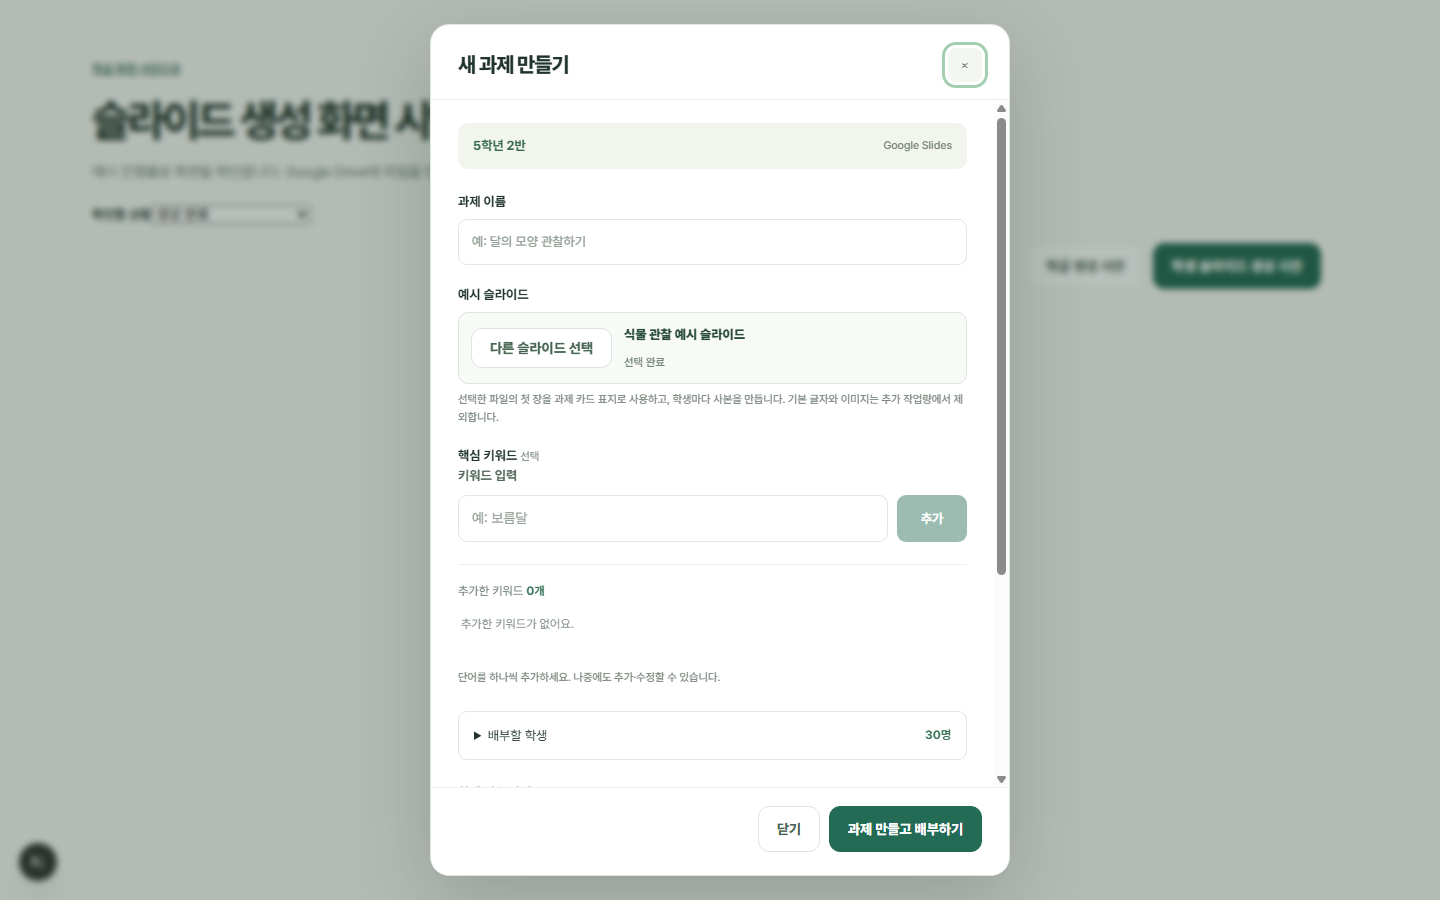
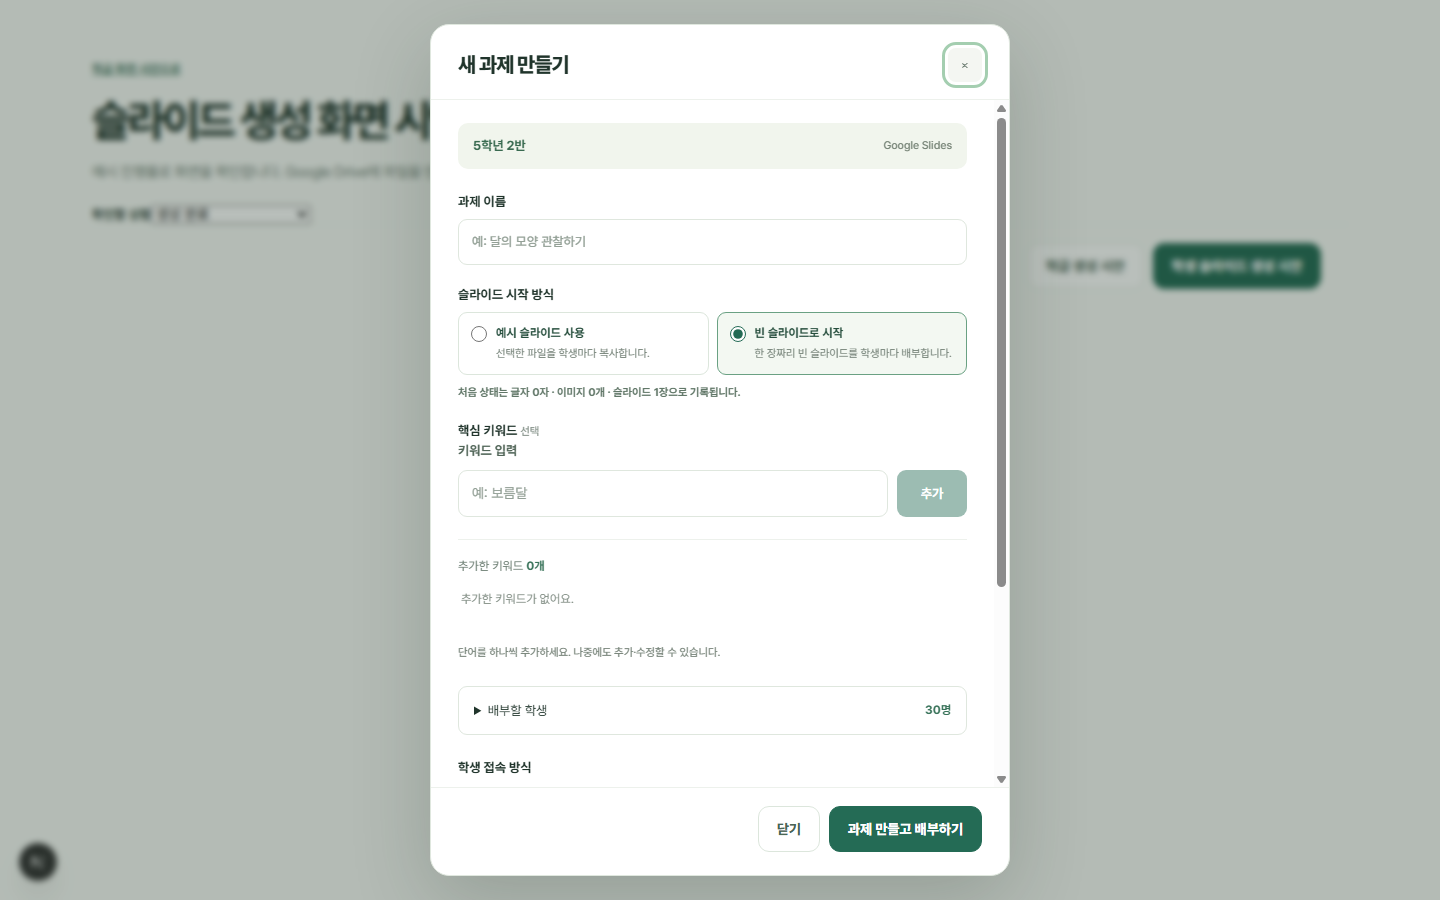
Allow blank slide assignments

diff --git a/src/components/ClassroomCreation.js b/src/components/ClassroomCreation.js
@@ -20,6 +20,7 @@ export default function ClassroomCreation({ kind, className, roster = [], existi
     const id = parsePresentationId(initialPlan?.templateUrl);
     return id ? { id, name: initialPlan?.templateName || '선택한 예시 슬라이드' } : preview ? { id: 'preview-template', name: '식물 관찰 예시 슬라이드' } : null;
   });
+  const [templateMode, setTemplateMode] = useState(initialPlan?.templateMode === 'blank' ? 'blank' : 'existing');
   const [pickingTemplate, setPickingTemplate] = useState(false);
   const [keywordList, setKeywordList] = useState(() => classroomKeywords(initialPlan?.keywords ?? initialPlan?.keywordsText ?? '')), [keywordDraft, setKeywordDraft] = useState('');
   const members = initialPlan?.roster || roster;
@@ -36,9 +37,9 @@ export default function ClassroomCreation({ kind, className, roster = [], existi
         if (isClass && (name === 'Sheet1' || name.startsWith('_'))) throw new Error('학급 이름에는 Sheet1이나 _로 시작하는 이름을 사용할 수 없습니다.');
         if (existingNames.includes(name)) throw new Error('같은 이름이 이미 있습니다. 구분할 수 있는 이름을 입력해 주세요.');
         if (isClass && !preview) assertRosterConfirmation(form.get('privacyConfirmed') === 'on');
-        const payload = isClass ? { name, rosterText: String(form.get('roster')), privacyConfirmed: form.get('privacyConfirmed') === 'on' } : { name, className, templateUrl: String(form.get('template')), templateName: template?.name || '', keywords: keywordList, shareSlides: form.get('share') === 'on', entryMode: String(form.get('entryMode') || 'shared'), roster: members.filter((student) => selected.includes(student.number)) };
+        const payload = isClass ? { name, rosterText: String(form.get('roster')), privacyConfirmed: form.get('privacyConfirmed') === 'on' } : { name, className, templateMode, templateUrl: templateMode === 'blank' ? '' : String(form.get('template')), templateName: templateMode === 'blank' ? '' : template?.name || '', keywords: keywordList, shareSlides: form.get('share') === 'on', entryMode: String(form.get('entryMode') || 'shared'), roster: members.filter((student) => selected.includes(student.number)) };
         parseRosterInput(isClass ? payload.rosterText : payload.roster.map((student) => `${student.number} ${student.name}`).join('\n'));
-        if (!isClass && !parsePresentationId(payload.templateUrl)) throw new Error('Google 슬라이드 템플릿 주소를 확인해 주세요.');
+        if (!isClass && templateMode === 'existing' && !parsePresentationId(payload.templateUrl)) throw new Error('Google 슬라이드 템플릿 주소를 확인해 주세요.');
         prepared.current = payload;
       }
       job.current ||= prepared.current.jobId || crypto.randomUUID();
@@ -74,7 +75,7 @@ export default function ClassroomCreation({ kind, className, roster = [], existi
         <fieldset disabled={busy || locked} className={real.fields}>
           <label className={styles.field}>{isClass ? '학급 이름' : '과제 이름'}<input name="name" defaultValue={initialPlan?.name || ''} required maxLength={80} placeholder={isClass ? '예: 4학년 4반' : '예: 달의 모양 관찰하기'} autoComplete="off" /></label>
           {isClass ? <><label className={styles.field}>학생 명단<textarea name="roster" required rows={8} placeholder={'1 김누리\n4 송명신\n5 달빛'} /><small>한 줄에 출석번호와 이름 또는 가명을 입력하세요. 빠진 번호는 그대로 두면 됩니다. 최대 50명.</small></label>{!preview && <div className={real.privacyNotice}><strong>명단 등록 전 확인</strong><p>번호·이름 또는 가명은 교사의 Google 시트에 저장합니다. 이후 공통 학생 링크를 만들면 링크 소지자가 목록과 연결 정보를 볼 수 있습니다.</p><label><input type="checkbox" name="privacyConfirmed" required /><span>수집·보관·공유 안내와 필요한 동의 또는 다른 적법한 처리 근거를 확인했습니다.</span></label><small>동의가 필요한 만 14세 미만 학생은 법정대리인의 동의와 그 확인 기록도 필요합니다. 이 확인란은 실제 동의서를 대신하지 않습니다.</small><a href="/privacy" target="_blank" rel="noopener noreferrer">개인정보처리방침 보기</a></div>}</> : <>
-            <div className={styles.field}><span>예시 슬라이드</span><input name="template" type="hidden" value={template?.id || ''} readOnly /><div className={real.pickerField}><button type="button" className={styles.secondaryButton} onClick={chooseTemplate} disabled={busy || locked || pickingTemplate || !onPickTemplate}>{pickingTemplate ? 'Google Drive 여는 중…' : template ? '다른 슬라이드 선택' : 'Google Drive에서 선택'}</button>{template ? <span className={real.pickedFile}><strong>{template.name}</strong><small>선택 완료</small></span> : <span className={real.pickerEmpty}>학생별로 복사할 Google Slides 파일을 선택하세요.</span>}</div><small>선택한 파일의 첫 장을 과제 카드 표지로 사용하고, 학생마다 사본을 만듭니다. 기본 글자와 이미지는 추가 작업량에서 제외합니다.</small></div>
+            <div className={styles.field}><span>슬라이드 시작 방식</span><input name="template" type="hidden" value={template?.id || ''} readOnly /><div className={real.slideSource}><label><input type="radio" name="templateMode" value="existing" checked={templateMode === 'existing'} onChange={() => setTemplateMode('existing')} /><span>예시 슬라이드 사용<small>선택한 파일을 학생마다 복사합니다.</small></span></label><label><input type="radio" name="templateMode" value="blank" checked={templateMode === 'blank'} onChange={() => setTemplateMode('blank')} /><span>빈 슬라이드로 시작<small>한 장짜리 빈 슬라이드를 학생마다 배부합니다.</small></span></label></div>{templateMode === 'existing' ? <><div className={real.pickerField}><button type="button" className={styles.secondaryButton} onClick={chooseTemplate} disabled={busy || locked || pickingTemplate || !onPickTemplate}>{pickingTemplate ? 'Google Drive 여는 중…' : template ? '다른 슬라이드 선택' : 'Google Drive에서 선택'}</button>{template ? <span className={real.pickedFile}><strong>{template.name}</strong><small>선택 완료</small></span> : <span className={real.pickerEmpty}>학생별로 복사할 Google Slides 파일을 선택하세요.</span>}</div><small>선택한 파일의 첫 장을 과제 카드 표지로 사용합니다. 기본 글자와 이미지는 추가 작업량에서 제외합니다.</small></> : <p className={real.blankSourceNote}>처음 상태는 글자 0자 · 이미지 0개 · 슬라이드 1장으로 기록됩니다.</p>}</div>
             <div className={styles.field}><span>핵심 키워드 <span className={styles.optional}>선택</span></span><KeywordInput words={keywordList} onChange={setKeywordList} draft={keywordDraft} onDraftChange={setKeywordDraft} disabled={busy || locked} /><small>단어를 하나씩 추가하세요. 나중에도 추가·수정할 수 있습니다.</small></div>
             <details className={styles.recipientPicker}><summary>배부할 학생 <strong>{selected.length}명</strong></summary><div className={styles.recipientActions}><button type="button" className={styles.textButton} onClick={() => setSelected(members.filter((student) => Number.isSafeInteger(student.number)).map((student) => student.number))}>전체 선택</button><button type="button" className={styles.textButton} onClick={() => setSelected([])}>선택 해제</button></div><div className={styles.checkGrid}>{members.map((student) => <label key={student.id || student.number}><input type="checkbox" disabled={!Number.isSafeInteger(student.number)} checked={selected.includes(student.number)} onChange={(event) => setSelected((previous) => event.target.checked ? [...previous, student.number] : previous.filter((number) => number !== student.number))} />{student.number === null ? '번호 없음' : `${student.number}번`} {student.name}</label>)}</div></details>
             {members.some((student) => !Number.isSafeInteger(student.number)) && <p className={real.warning}>출석번호가 없는 학생은 배부할 수 없습니다. 번호를 포함한 학급 명단을 등록해 주세요.</p>}

diff --git a/src/components/GuideCarousel.js b/src/components/GuideCarousel.js
@@ -8,9 +8,9 @@ import styles from './GuideCarousel.module.css';
 
 const cards = [
   { label: '시작', title: '첫 슬라이드 수업,\n이 순서대로 시작해요.', body: '학급을 만들고 과제를 배부한 뒤, 수업 중의 변화를 살펴보고 필요한 학생에게 피드백을 전합니다.', visual: 'cover' },
-  { label: '01 · 연결', title: '선생님의 Google 계정으로 연결해요.', body: '학급 명단과 수업 기록은 선생님의 Google Drive에 저장됩니다. 출석번호가 있는 명단과 수업용 예시 슬라이드를 미리 준비해 주세요.', points: ['Google 계정으로 계속하기를 누르세요.', '학생 접속 화면에는 별도 로그인이 없어요. Google 슬라이드는 학교 계정으로 열어요.'], shots: [{ src: 'home', caption: '메인 화면 · Google 계정으로 계속하기', alt: '메인 화면의 Google 계정으로 계속하기 버튼', x: 78, y: 57 }] },
+  { label: '01 · 연결', title: '선생님의 Google 계정으로 연결해요.', body: '학급 명단과 수업 기록은 선생님의 Google Drive에 저장됩니다. 출석번호가 있는 명단을 준비해 주세요. 예시 슬라이드는 없어도 됩니다.', points: ['Google 계정으로 계속하기를 누르세요.', '학생 접속 화면에는 별도 로그인이 없어요. Google 슬라이드는 학교 계정으로 열어요.'], shots: [{ src: 'home', caption: '메인 화면 · Google 계정으로 계속하기', alt: '메인 화면의 Google 계정으로 계속하기 버튼', x: 78, y: 57 }] },
   { label: '02 · 학급', title: '우리 반과 학생 명단을 등록해요.', body: '첫 학급 등록하기에서 학급 이름을 적고, 학생을 한 줄에 한 명씩 입력합니다. 번호와 이름 또는 가명을 함께 넣어 주세요.', points: ['학급 목록에서 첫 학급 등록하기를 누르세요.', '예: 1 김누리, 4 송명신'], shots: [{ src: 'first-class', caption: '① 학급 목록에서 시작', alt: '첫 학급 등록하기 버튼이 있는 학급 목록', x: 50, y: 64 }, { src: 'create-class', caption: '② 학급 이름과 명단 입력', alt: '학급 이름과 학생 명단을 입력하는 창', x: 51, y: 54 }] },
-  { label: '03 · 과제', title: '예시 슬라이드로 과제를 배부해요.', body: '새 과제 만들기에서 제목을 입력하고 Google Drive의 예시 슬라이드를 선택합니다. 키워드는 선택 사항이며 나중에도 바꿀 수 있습니다.', points: ['새 과제 만들기를 누르세요.', '배부할 학생과 접속 방식을 확인한 뒤 생성하세요.'], shots: [{ src: 'classroom', caption: '① 학급 화면에서 새 과제 만들기', alt: '학급 과제 목록 오른쪽의 새 과제 만들기 버튼', x: 88, y: 36 }, { src: 'create-assignment', caption: '② 제목과 예시 슬라이드 선택', alt: '과제 이름과 예시 슬라이드를 선택하는 창', x: 50, y: 39 }] },
+  { label: '03 · 과제', title: '예시 또는 빈 슬라이드로 배부해요.', body: '새 과제 만들기에서 제목을 입력하고 예시 슬라이드 사용 또는 빈 슬라이드로 시작을 고릅니다. 키워드는 선택 사항이며 나중에도 바꿀 수 있습니다.', points: ['새 과제 만들기를 누르세요.', '배부할 학생과 접속 방식을 확인한 뒤 생성하세요.'], shots: [{ src: 'classroom', caption: '① 학급 화면에서 새 과제 만들기', alt: '학급 과제 목록 오른쪽의 새 과제 만들기 버튼', x: 88, y: 36 }, { src: 'create-assignment', caption: '② 빈 슬라이드로 시작 선택', alt: '예시 슬라이드 사용과 빈 슬라이드로 시작 중 선택하는 창', x: 52, y: 37 }] },
   { label: '04 · 학생 접속', title: '학생에게 링크나 QR을 보내요.', body: '과제의 학생 접속 안내에서 기본 링크를 복사하거나 QR을 보여 주세요. 공통 링크를 받은 학생은 자기 이름을 선택해 슬라이드를 엽니다.', points: ['링크 복사 또는 QR 다운로드를 사용하세요.', '필요하면 학생별 링크·QR 방식도 선택할 수 있어요.'], shots: [{ src: 'student-share', caption: '① 교사 화면에서 링크·QR 안내', alt: '학생 접속 안내 창의 QR과 링크 복사 버튼', x: 36, y: 57 }, { src: 'student-view', caption: '② 학생 화면에서 이름 선택', alt: '학생이 자신의 이름을 선택하는 접속 화면', x: 50, y: 49 }] },
   { label: '05 · 수업 시작', title: '수업을 시작할 때 모니터링을 켜요.', body: '현재 기준으로 모니터링 시작을 누르면 그때의 슬라이드 상태를 첫 기준으로 저장합니다. 이후 확인된 변화부터 작업 기록과 그래프에 표시됩니다.', points: ['전날 만들어 둔 과제도 수업 시작 시 눌러 주세요.', '시작 전의 글자 수를 새 작업량으로 계산하지 않아요.'], visual: 'monitor' },
   { label: '06 · 먼저 보기', title: '먼저 살펴볼 학생을 찾아요.', body: '답변을 기다리는 댓글, 텍스트 급증, 변화가 없는 학생을 한 화면에서 확인합니다. 텍스트 급증은 확인할 신호이며 복사·붙여넣기의 확정 판정은 아닙니다.', points: ['왼쪽의 먼저 살펴볼 학생을 확인하세요.', '학생 카드를 누르면 자세한 기록을 볼 수 있어요.'], shots: [{ src: 'dashboard', caption: '작업 현황 · 먼저 살펴볼 학생', alt: '먼저 살펴볼 학생과 학생별 작업 카드가 있는 대시보드', x: 14, y: 57 }] },

diff --git a/src/components/ClassWorkspace.js b/src/components/ClassWorkspace.js
@@ -45,6 +45,7 @@ function RosterDialog({ className, roster, error, onRetry, onClose, busy }) {
 function AssignmentCover({ assignment }) {
   const [failedUrl, setFailedUrl] = useState(null);
   const cover = assignment.cover;
+  if (assignment.blankTemplate && !assignment.slidesTrashed) return <div className={real.assignmentCover}><div className={real.coverFallback}><Image src="/google-slides.svg" width={32} height={40} alt="" /><span>빈 슬라이드로 시작</span></div></div>;
   if (cover && failedUrl !== cover.url) return <div className={real.assignmentCover}>
     <Image className={real.coverImage} src={cover.url} width={cover.width} height={cover.height} unoptimized referrerPolicy="no-referrer" alt={`${assignment.name} ${cover.source === 'student' ? '학생 슬라이드' : '예시 슬라이드'} 첫 장`} onError={() => setFailedUrl(cover.url)} />
     <span className={real.coverLabel}>{cover.source === 'student' ? '학생 슬라이드 · 첫 장' : '예시 슬라이드 · 첫 장'}</span>
@@ -79,7 +80,7 @@ function AssignmentTrashDialog({ assignment, onDelete, onClose }) {
       {assignment.slidesTrashed && <p className={real.trashNote}>학생 슬라이드는 이미 휴지통으로 옮겼습니다.</p>}
       <p className={styles.dialogDescription}>{scope === 'slides' ? '과제 카드는 남아 저장된 기록을 볼 수 있습니다. 기존 학생 접속 시트와 슬라이드 연결 정보도 남습니다.' : '과제 카드가 목록에서 사라지고 학생 접속 시트도 휴지통으로 이동합니다.'}</p>
       <p className={real.trashNote}>휴지통 이동만으로 기존 공유 링크의 접근이 즉시 차단되는 것은 아닙니다.</p>
-      <p className={real.trashNote}>처음 선택한 예시 슬라이드와 학급 명단은 유지됩니다. Google Drive 휴지통에서 각 파일을 복원할 수 있습니다.</p>
+      <p className={real.trashNote}>{assignment.blankTemplate ? '학급 명단은 유지됩니다.' : '처음 선택한 예시 슬라이드와 학급 명단은 유지됩니다.'} Google Drive 휴지통에서 각 파일을 복원할 수 있습니다.</p>
       {error && <p className={real.editError} role="alert">{error}</p>}
     </div>
     <div className={styles.dialogActions}><button className={styles.secondaryButton} onClick={close} disabled={deleting}>취소</button><button className={real.trashConfirm} onClick={confirm} disabled={deleting}>{deleting ? '휴지통으로 옮기는 중…' : scope === 'slides' ? '학생 슬라이드 휴지통으로 이동' : '과제와 기록 휴지통으로 이동'}</button></div>

diff --git a/src/components/ClassroomCreation.module.css b/src/components/ClassroomCreation.module.css
@@ -8,6 +8,13 @@
 .context { display: flex; align-items: center; justify-content: space-between; margin-bottom: 23px; padding: 13px 15px; border-radius: 10px; background: #f1f5ed; color: #396a50; font-size: 13px; font-weight: 700; }
 .context span { color: #788578; font-size: 11px; font-weight: 450; }
 .pickerField { display: flex; align-items: center; gap: 12px; margin-top: 8px; padding: 12px; border: 1px solid #dce6dc; border-radius: 10px; background: #f8faf7; }
+.slideSource { display: grid; grid-template-columns: repeat(2, minmax(0, 1fr)); gap: 8px; margin-top: 8px; }
+.slideSource label { display: flex; align-items: flex-start; gap: 9px; padding: 11px 12px; border: 1px solid #dce6dc; border-radius: 9px; cursor: pointer; }
+.slideSource label:has(input:checked) { border-color: #6aa183; background: #f3f8f2; }
+.slideSource label input[type='radio'] { display: inline-block; flex: 0 0 16px; width: 16px; height: 16px; margin: 2px 0 0; padding: 0; accent-color: #246b55; }
+.slideSource span { color: #264e3d; font-size: 12px; font-weight: 700; }
+.slideSource small { display: block; margin-top: 4px; color: #77847a; font-size: 11px; font-weight: 400; line-height: 1.5; }
+.blankSourceNote { margin-top: 9px; color: #617768; font-size: 11px; line-height: 1.6; }
 .pickerField button { flex: 0 0 auto; min-height: 40px; }
 .pickedFile { min-width: 0; display: flex; flex-direction: column; gap: 3px; }
 .pickedFile strong { overflow: hidden; text-overflow: ellipsis; white-space: nowrap; color: #294c3b; font-size: 13px; }
@@ -54,3 +61,4 @@
 @media (prefers-reduced-motion: reduce) { .spinner { animation: none; } .progressBar::-webkit-progress-value { transition: none; } }
 @media (max-width: 600px) { .progressBody { padding: 22px 20px 25px; } .progressAmount strong { font-size: 52px; } }
 @media (max-width: 600px) { .pickerField { align-items: stretch; flex-direction: column; } .pickerField button { width: 100%; } }
+@media (max-width: 600px) { .slideSource { grid-template-columns: 1fr; } }
